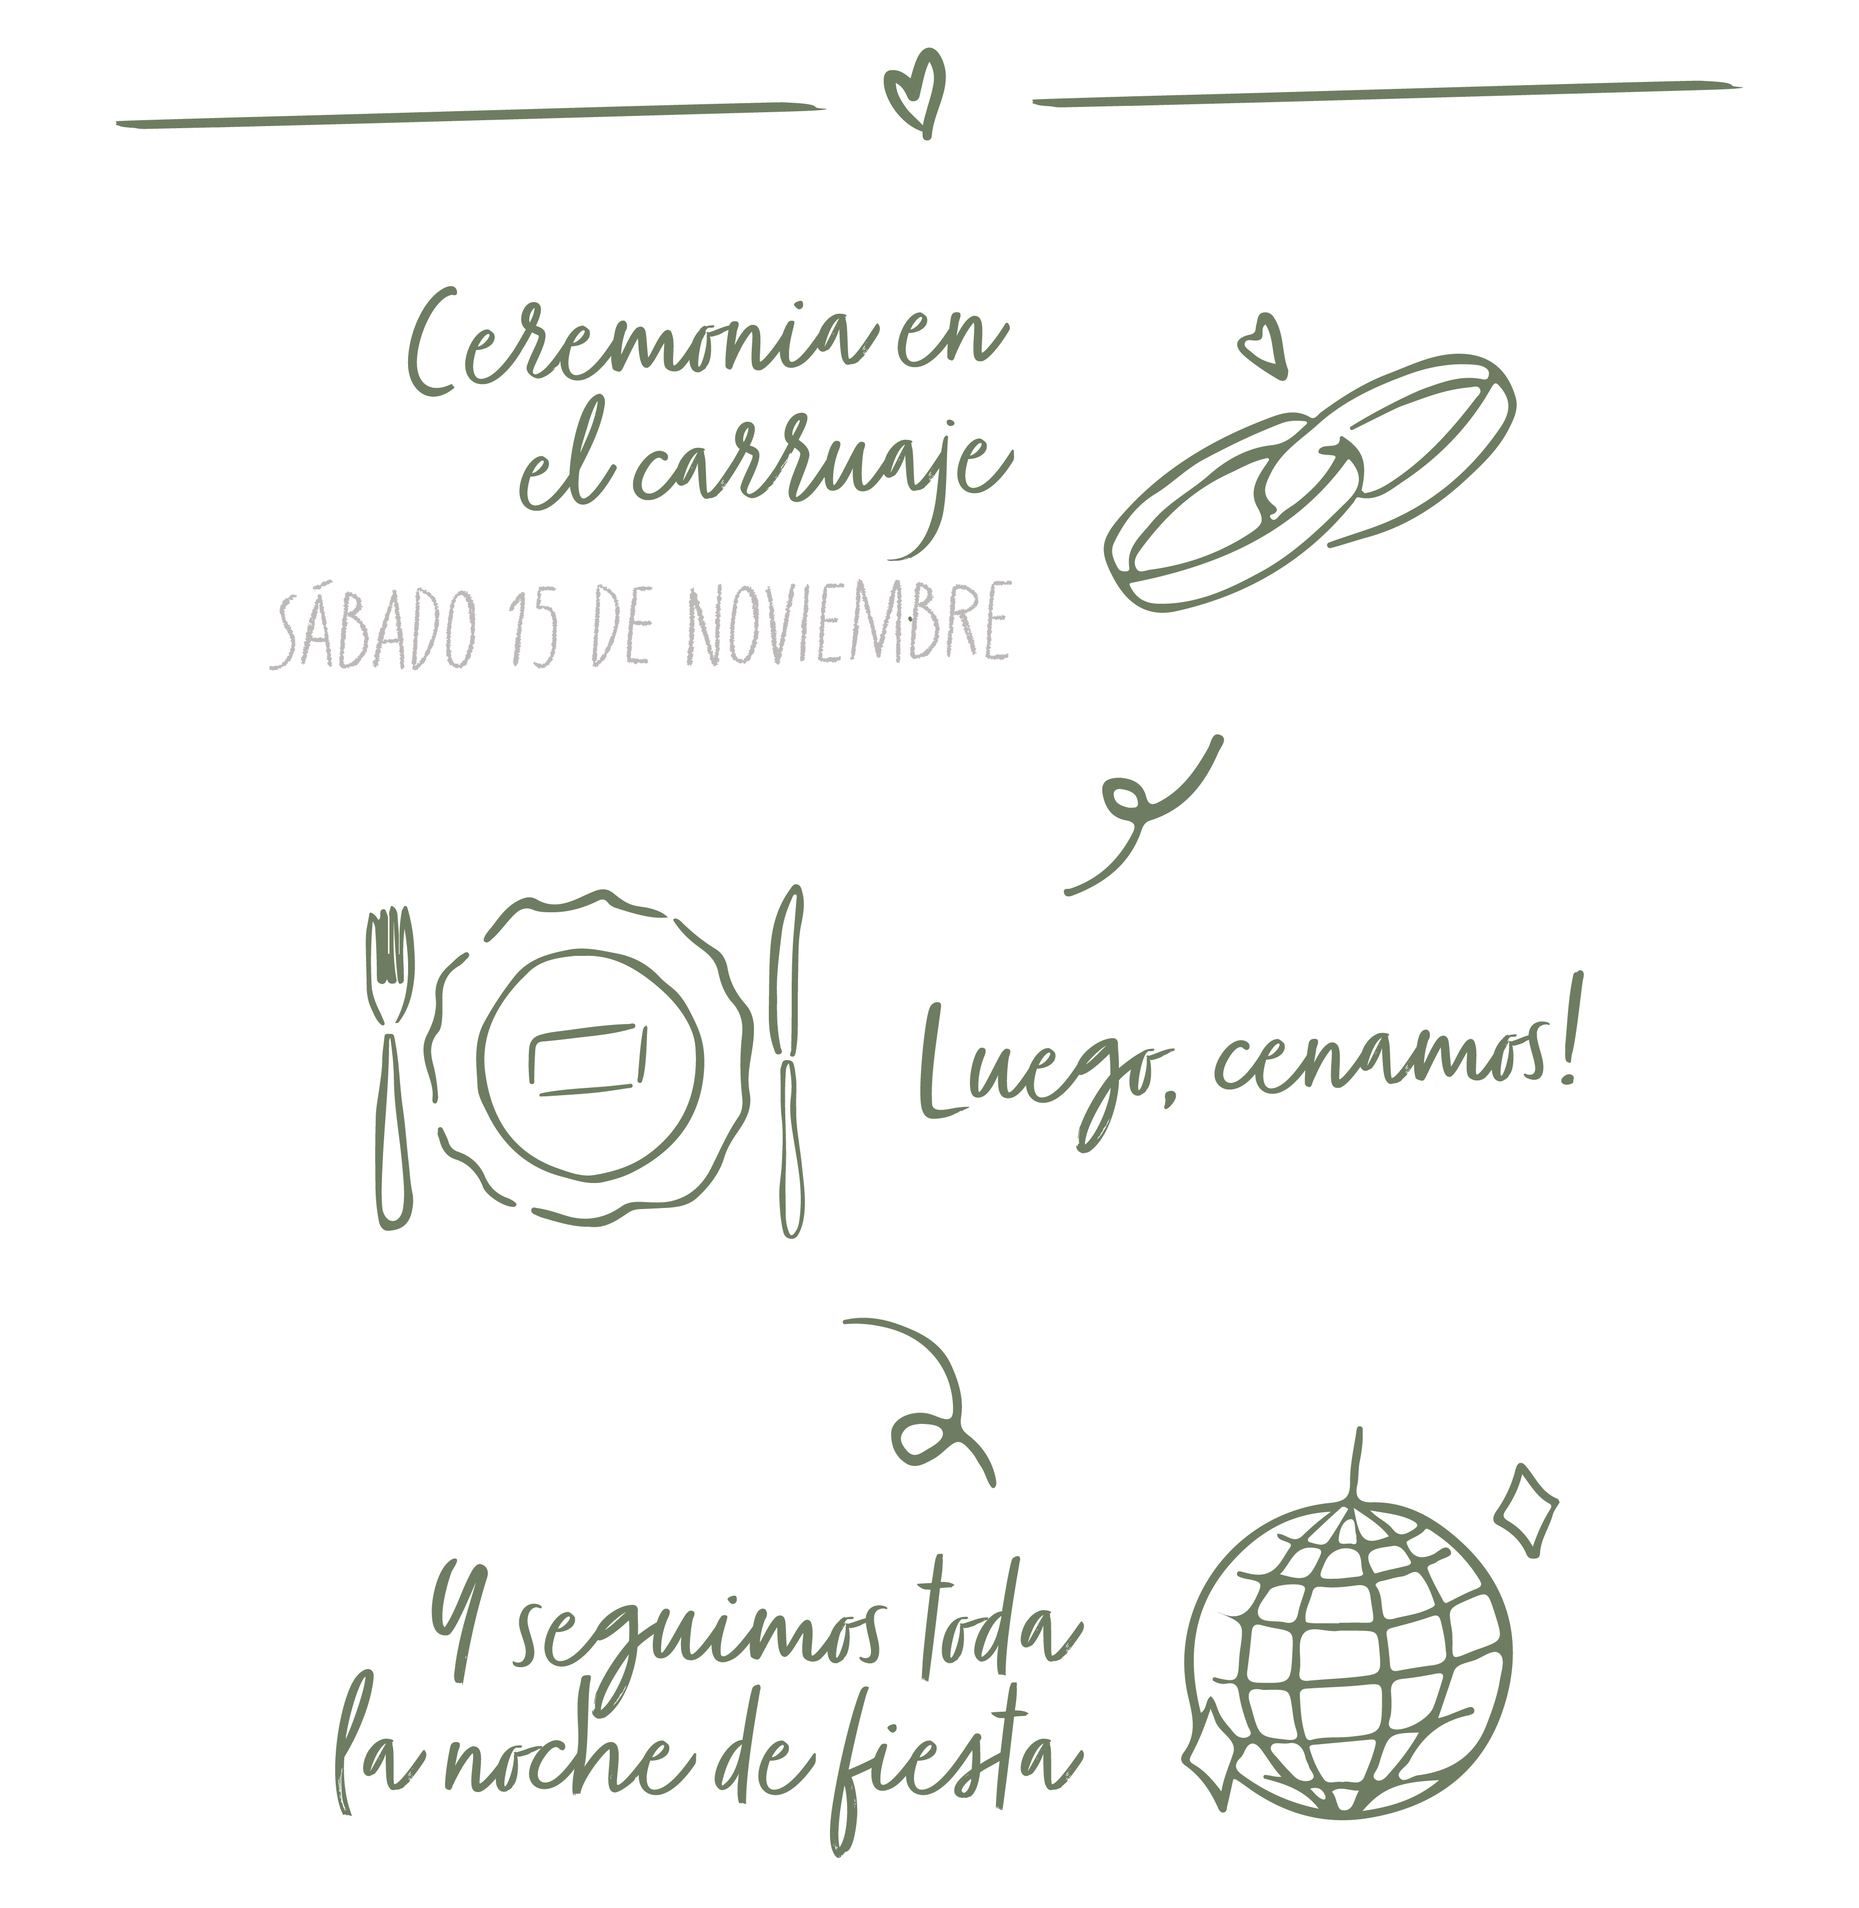
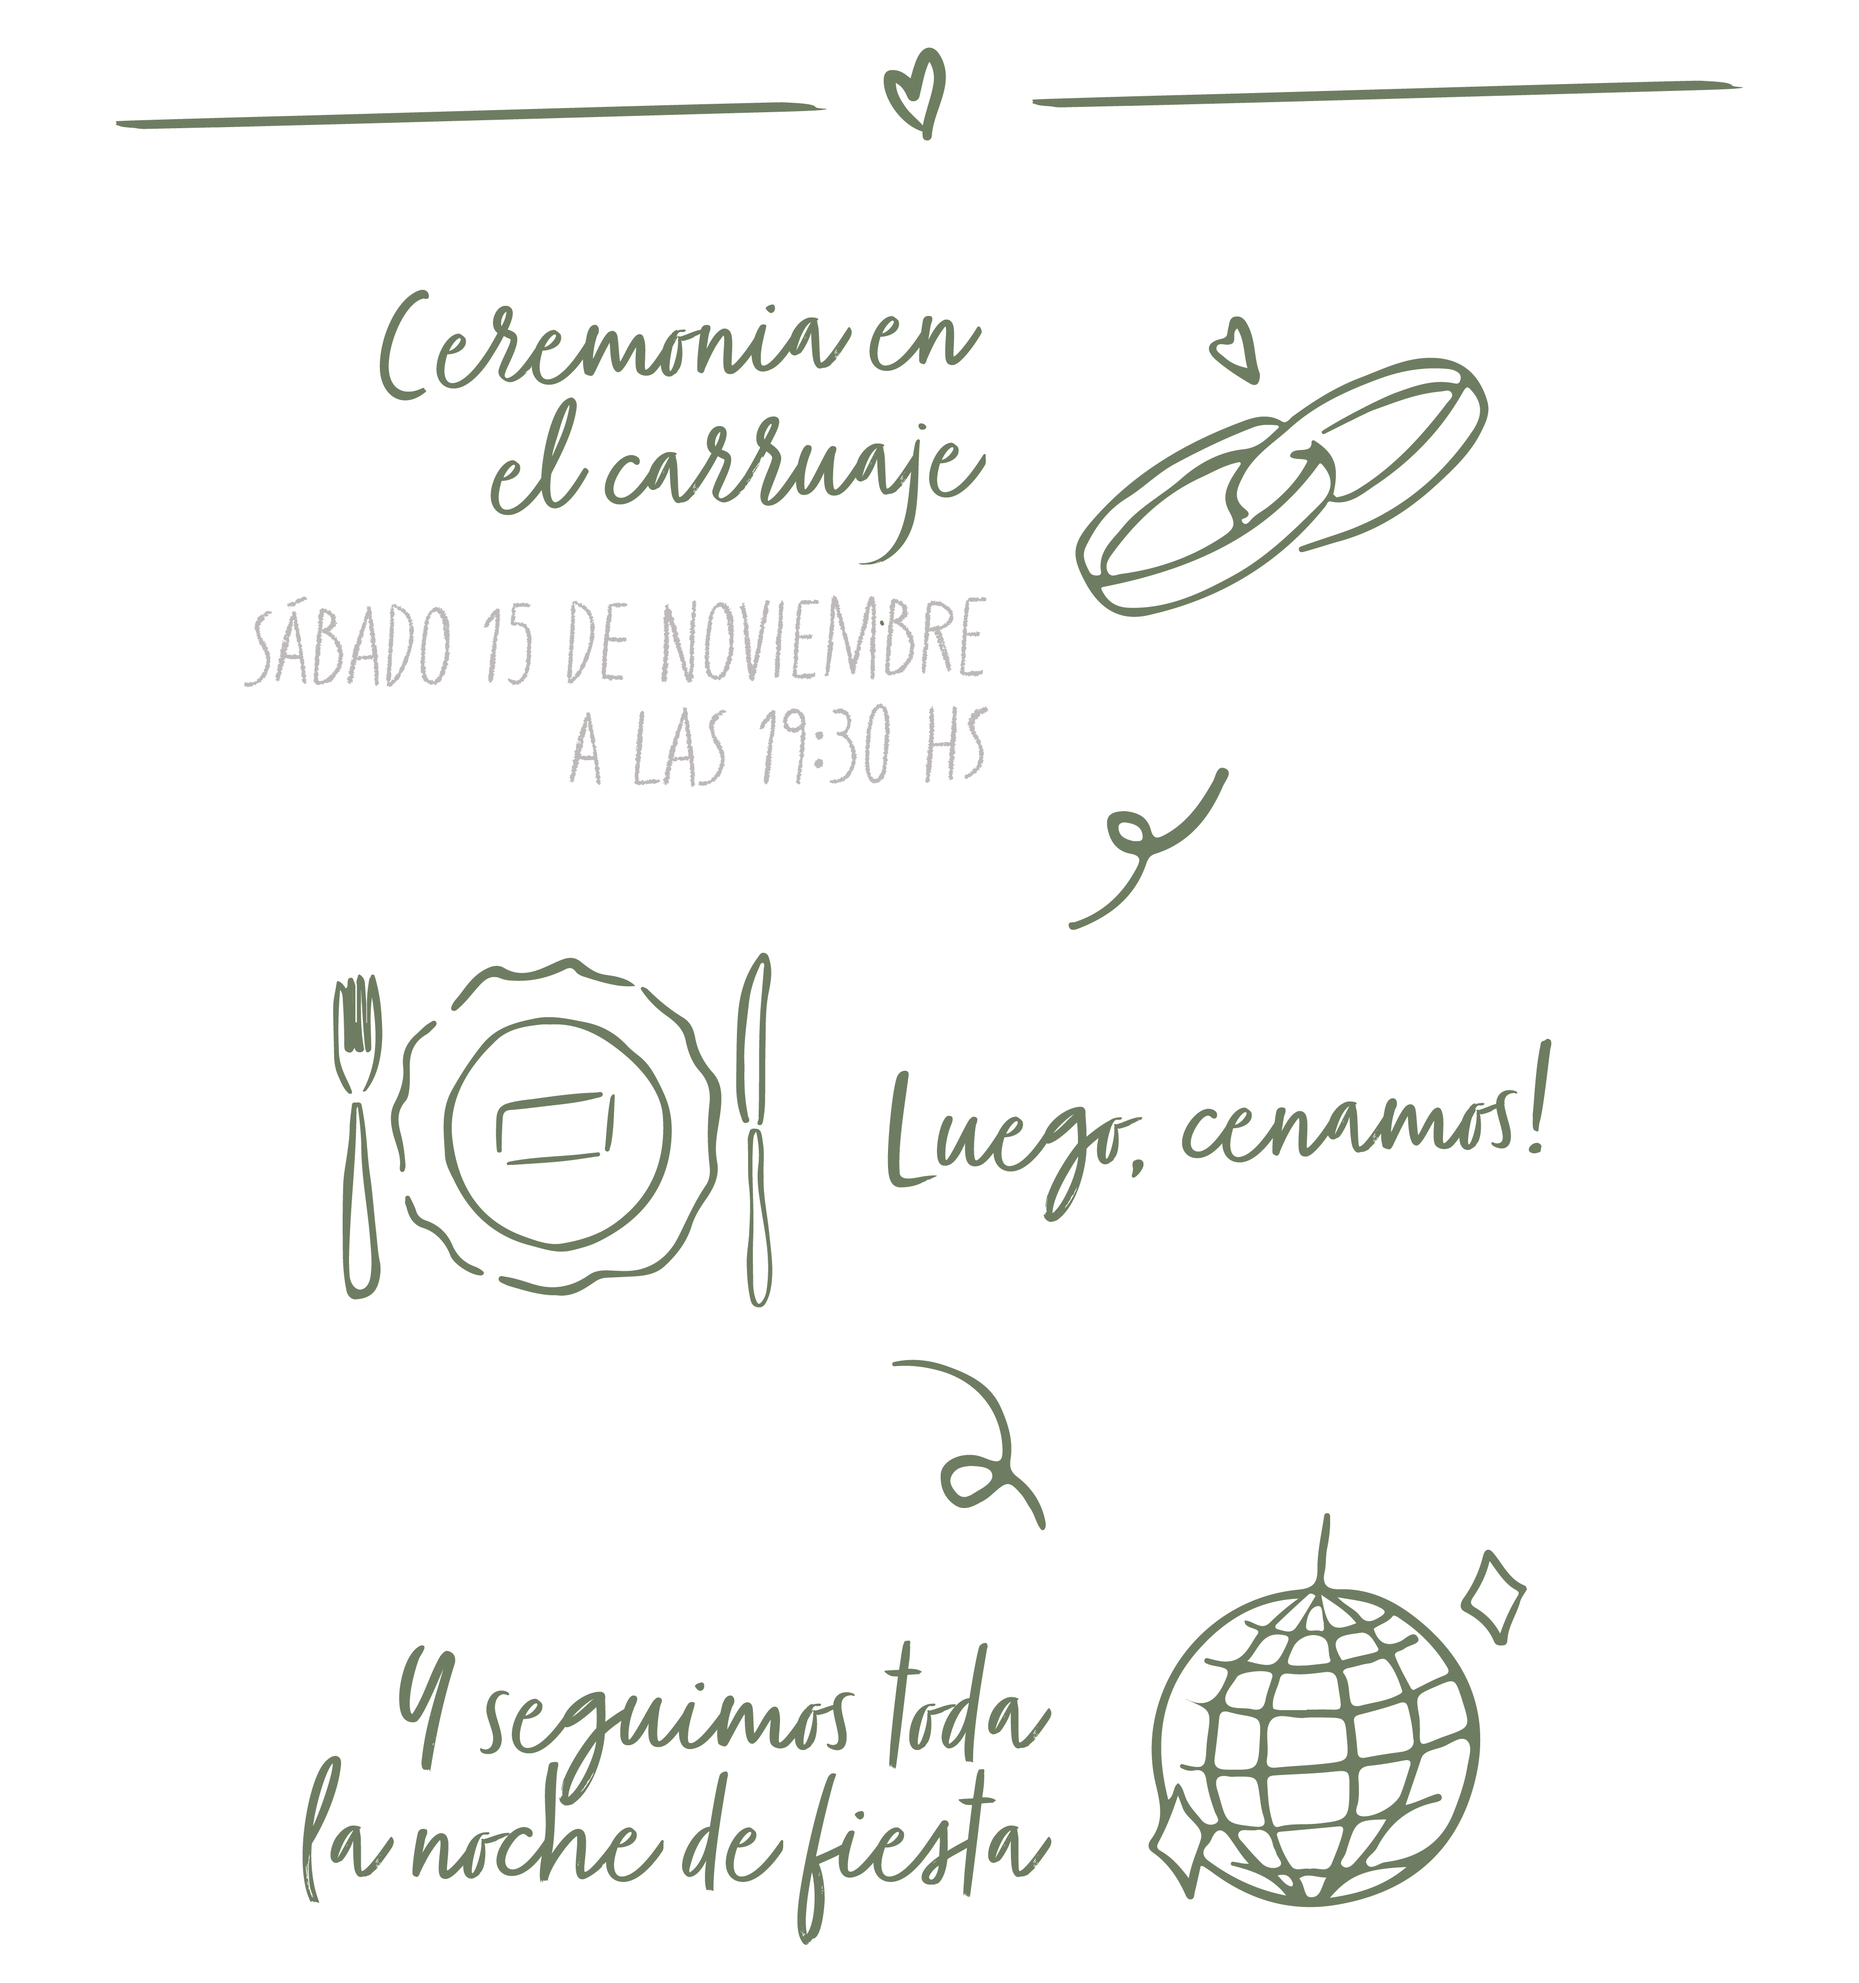
horario agregado

diff --git a/index.html b/index.html
@@ -71,7 +71,7 @@
         <h3 data-aos="fade-right" data-aos-delay="500" data-aos-duration="1300">
           Ceremonia <br />& fiesta
         </h3>
-        <p data-aos="zoom-out" data-aos-duration="1300">
+        <p data-aos="zoom-in" data-aos-duration="1300">
           CELEBRAMOS JUNTOS <br />
           EN EL SALÓN "EL CARRUAJE"
         </p>

diff --git a/script.js b/script.js
@@ -1,5 +1,5 @@
 document.addEventListener("DOMContentLoaded", function () {
-  const fechaBoda = new Date("2025-11-15T17:30:00").getTime();
+  const fechaBoda = new Date("2025-11-15T19:30:00").getTime();
 
   function actualizarContador() {
     const ahora = new Date().getTime();

diff --git a/style.css b/style.css
@@ -142,6 +142,7 @@ body {
   gap: 30px;
   margin-top: 50px;
 }
+
 .valor {
   margin-top: 50px;
 }
